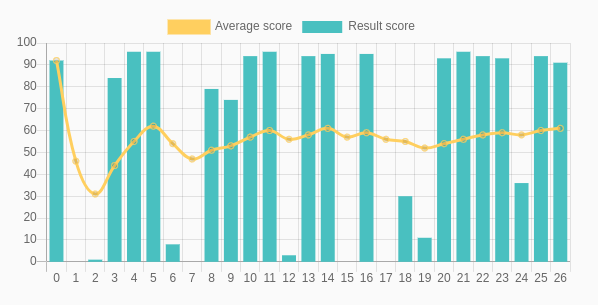
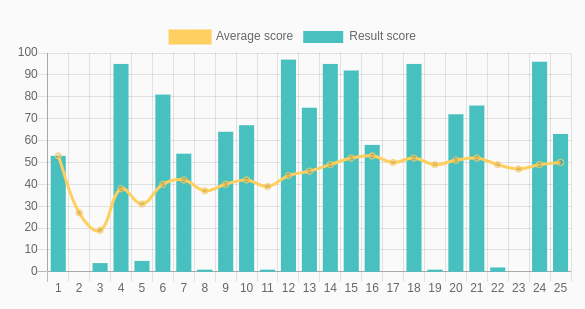
updated images and text

diff --git a/Django/results_AI/templates/results_AI_index.html b/Django/results_AI/templates/results_AI_index.html
@@ -78,7 +78,7 @@
     {% else %}
     <div class="average_high">
         {{average}}/100
-        <p>Is this an asylum?!</p>
+        <p>Some big improvements can be made!</p>
     </div>
     {% endif %}
     <div class="results">

diff --git a/Django/results_AI/sqlite.py b/Django/results_AI/sqlite.py
@@ -1,4 +1,8 @@
-import sqlite3, csv, random, datetime, os
+import sqlite3
+import csv
+import random
+import datetime
+import os
 
 """
 This sqlite program is made for:
@@ -11,6 +15,7 @@ database = os.path.join(dir, "../db.sqlite3")
 
 # Function for reading table 'results_AI_resultsdataset' and 'results_AI_resultssurvey'
 print(os.getcwd())
+
 
 def checkTable():
     connector = sqlite3.connect(database)
@@ -36,10 +41,11 @@ def checkTable():
 
     connector.close()
 
+
 def tableInjector(amount=25):
     connector = sqlite3.connect(database)
     cursor = connector.cursor()
-    
+
     for y in range(amount):
         choice = [0.0, 0.5, 1.0]
         randomGen = [
@@ -73,6 +79,7 @@ def tableInjector(amount=25):
         print(f"Injected {y + 1} lines into the database.")
 
     connector.close()
+
 
 def resetSurveyTable():
     connector = sqlite3.connect(database)
@@ -184,9 +191,8 @@ def main():
     # resetSurveyTable()
     # fillDatatasetTable()
     # checkTable()
-    tableInjector() # Add keyword argument (**kwargs) amount={number} if you want more or less lines added than 25.
+    tableInjector()  # Add keyword argument (**kwargs) amount={number} if you want more or less lines added than 25.
 
 
 if __name__ == "__main__":
     main()
-

diff --git a/Django/results_AI/views.py b/Django/results_AI/views.py
@@ -50,7 +50,7 @@ def index(request):
         'average': average,
         'recommendations': recommendations,
         'predictions': predictions,
-        'labels': [i for i in range(len(predictions))],
+        'labels': [i + 1 for i in range(len(predictions))],
         'averages': averages,
     })
 
